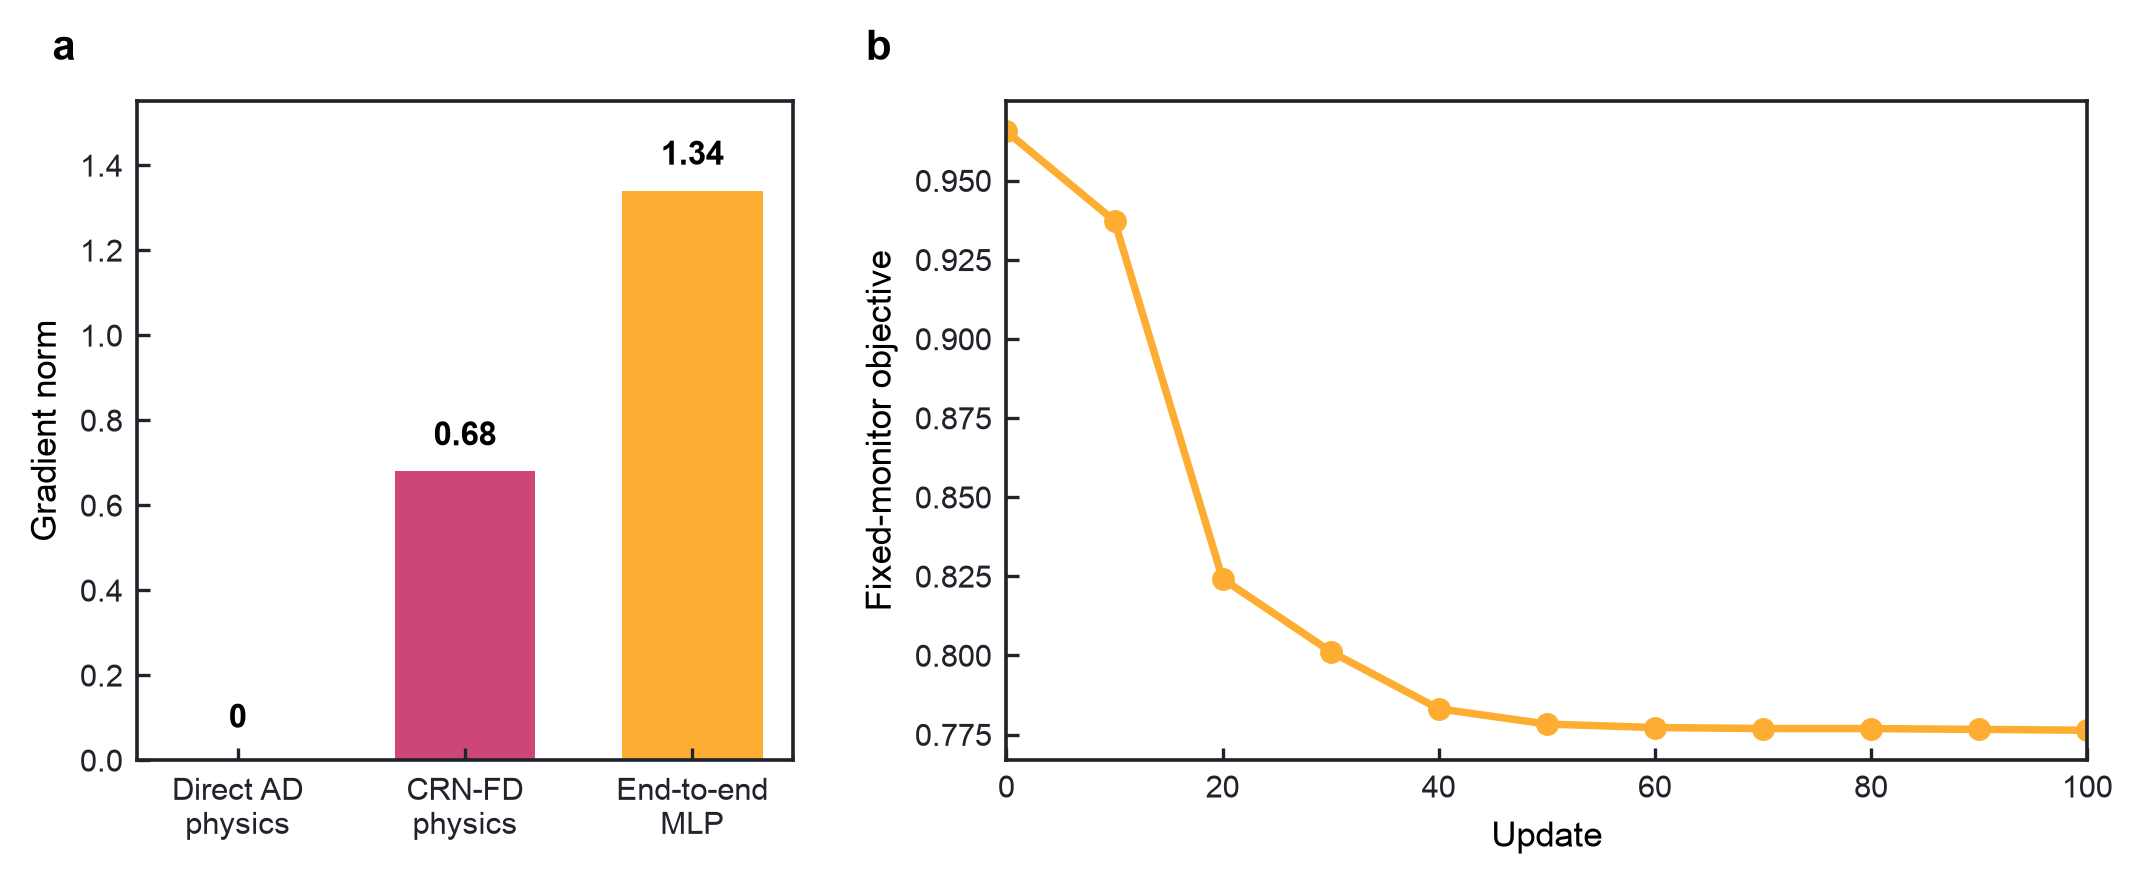
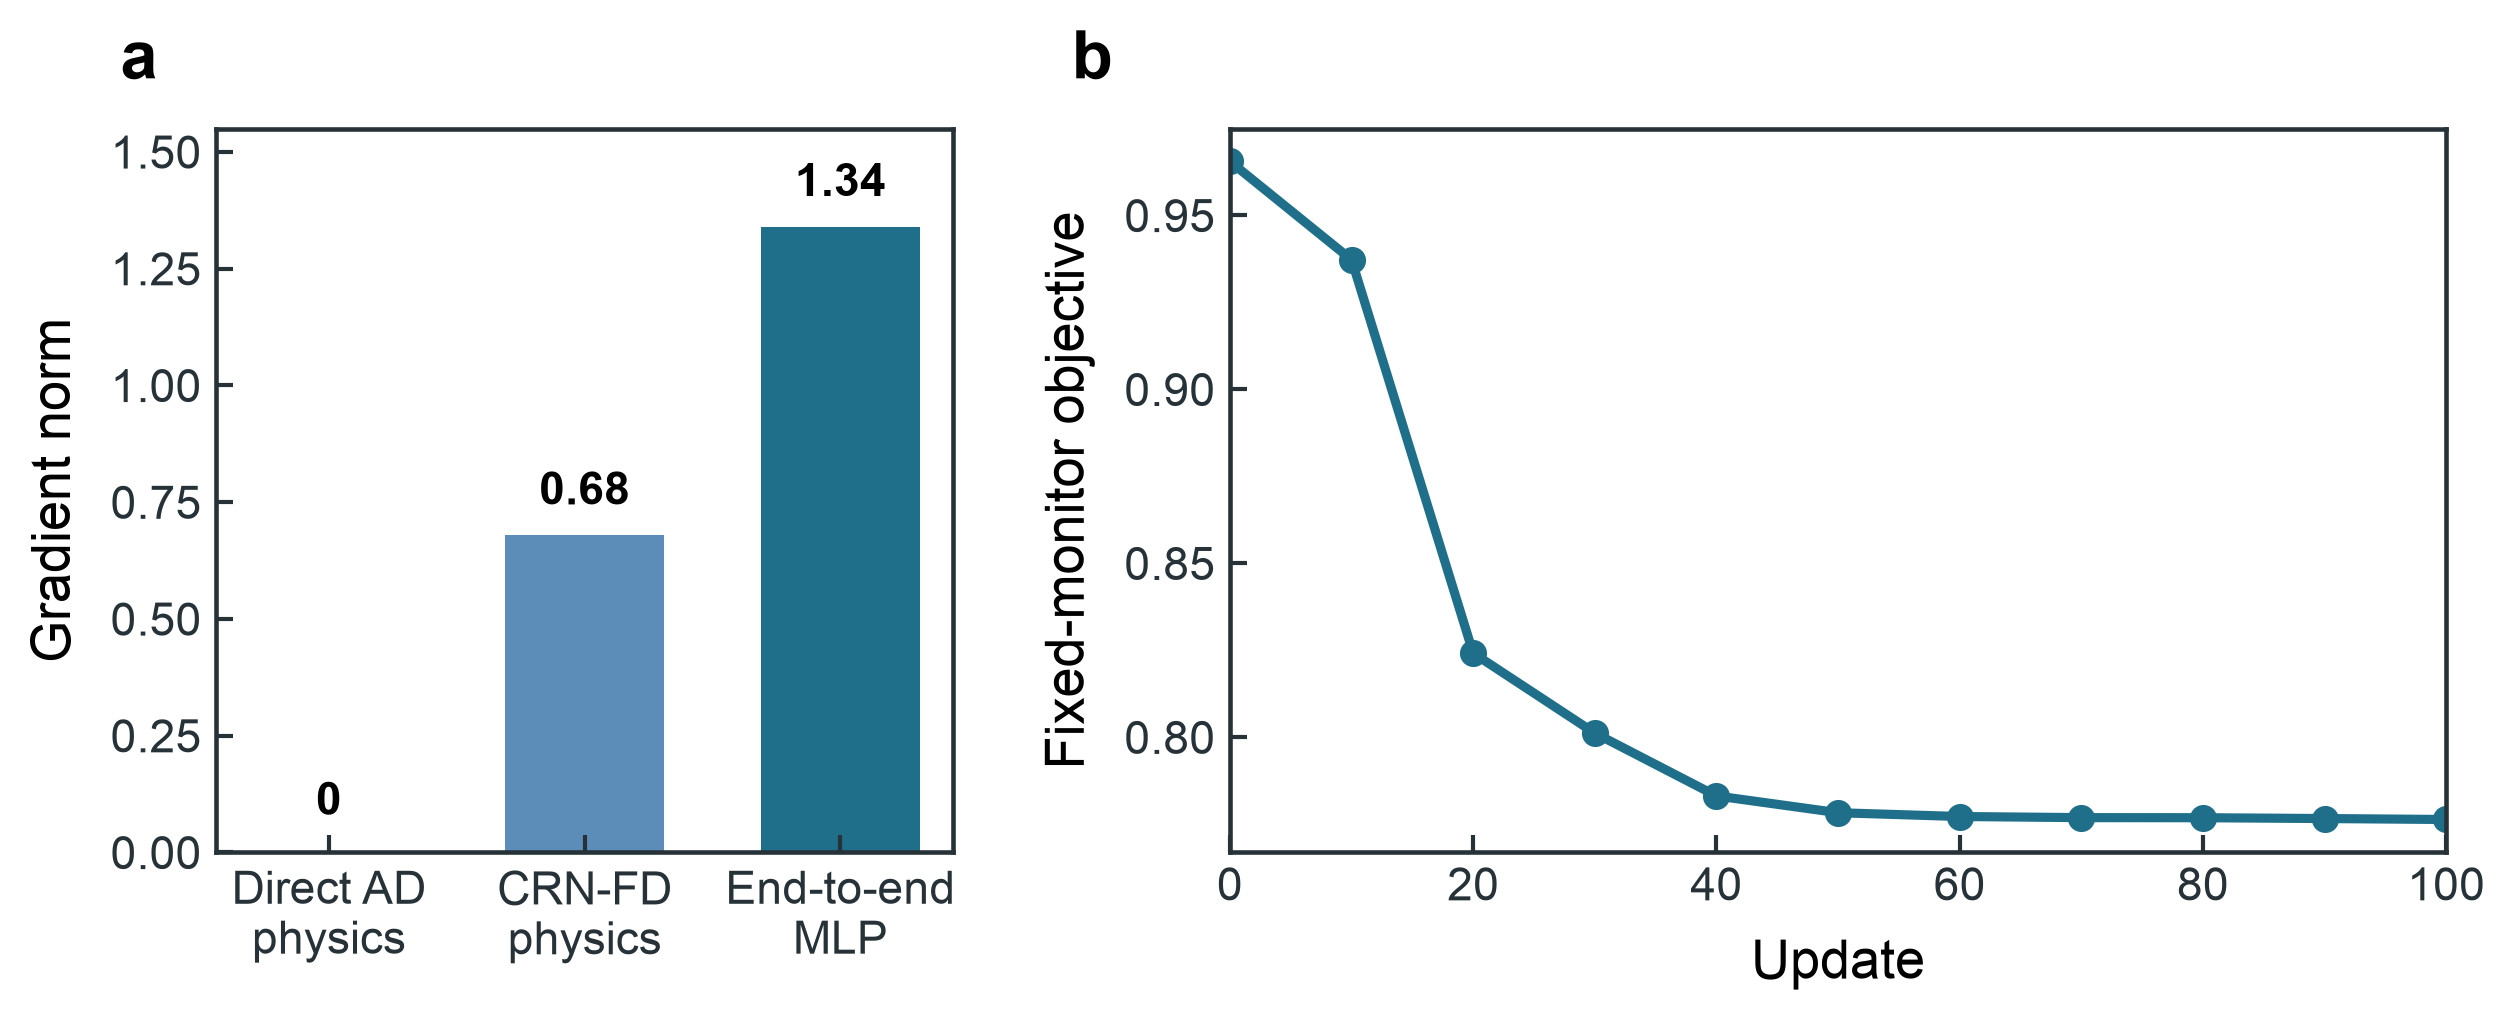
style: polish final visuals and README title

diff --git a/README.md b/README.md
@@ -1,10 +1,10 @@
-# JumpGrad: End-to-End Optimization through Discrete Stochastic Mechanics
+# JumpGrad: End-to-End Gradient Optimization through Discrete Stochastic Mechanics
 
 <p align="center">
   <img src="outputs/jumpgrad_visuals/passive_wu_jumpgrad.gif" width="760" alt="Passive, Wu2019, and JumpGrad beam vibration under the same operating condition">
 </p>
 
-JumpGrad is a [Tesseract Hackathon 2026](https://pasteurlabs.ai/tesseract-hackathon-2026/) **Track 03 — Hybrid ML + mechanistic models** entry. It trains a PyTorch controller through a JAX-based frictional mechanics solver whose hard random switching events make the sampled physics gradient invisible to ordinary automatic differentiation.
+JumpGrad is a [Tesseract Hackathon 2026](https://pasteurlabs.ai/tesseract-hackathon-2026/) **Track 03 — Hybrid ML + mechanistic models** entry. It performs end-to-end gradient optimization of a PyTorch controller through a JAX-based frictional mechanics solver whose hard random switching events make the sampled physics gradient invisible to ordinary automatic differentiation.
 
 ## 1. Overview
 
@@ -80,7 +80,7 @@ During the backward pass, the mechanics Tesseract estimates the cotangent of `q`
 </p>
 
 <p align="center">
-  <img src="outputs/jumpgrad_visuals/held_out.png" width="680" alt="Paired Wu2019 and JumpGrad vibration reductions across all eight held-out operating conditions">
+  <img src="outputs/jumpgrad_visuals/held_out.png" width="680" alt="Paired Wu2019 and JumpGrad vibration reductions and their signed difference across eight held-out operating conditions">
 </p>
 
 Wu2019 reduces the sampled resonance peak by about 20.2% relative to passive friction. JumpGrad reaches about 23.9% reduction, and its sampled peak is approximately 4.6% lower than the reproduced Wu2019 baseline. Both peaks lie inside the sampled local-FRF window.
